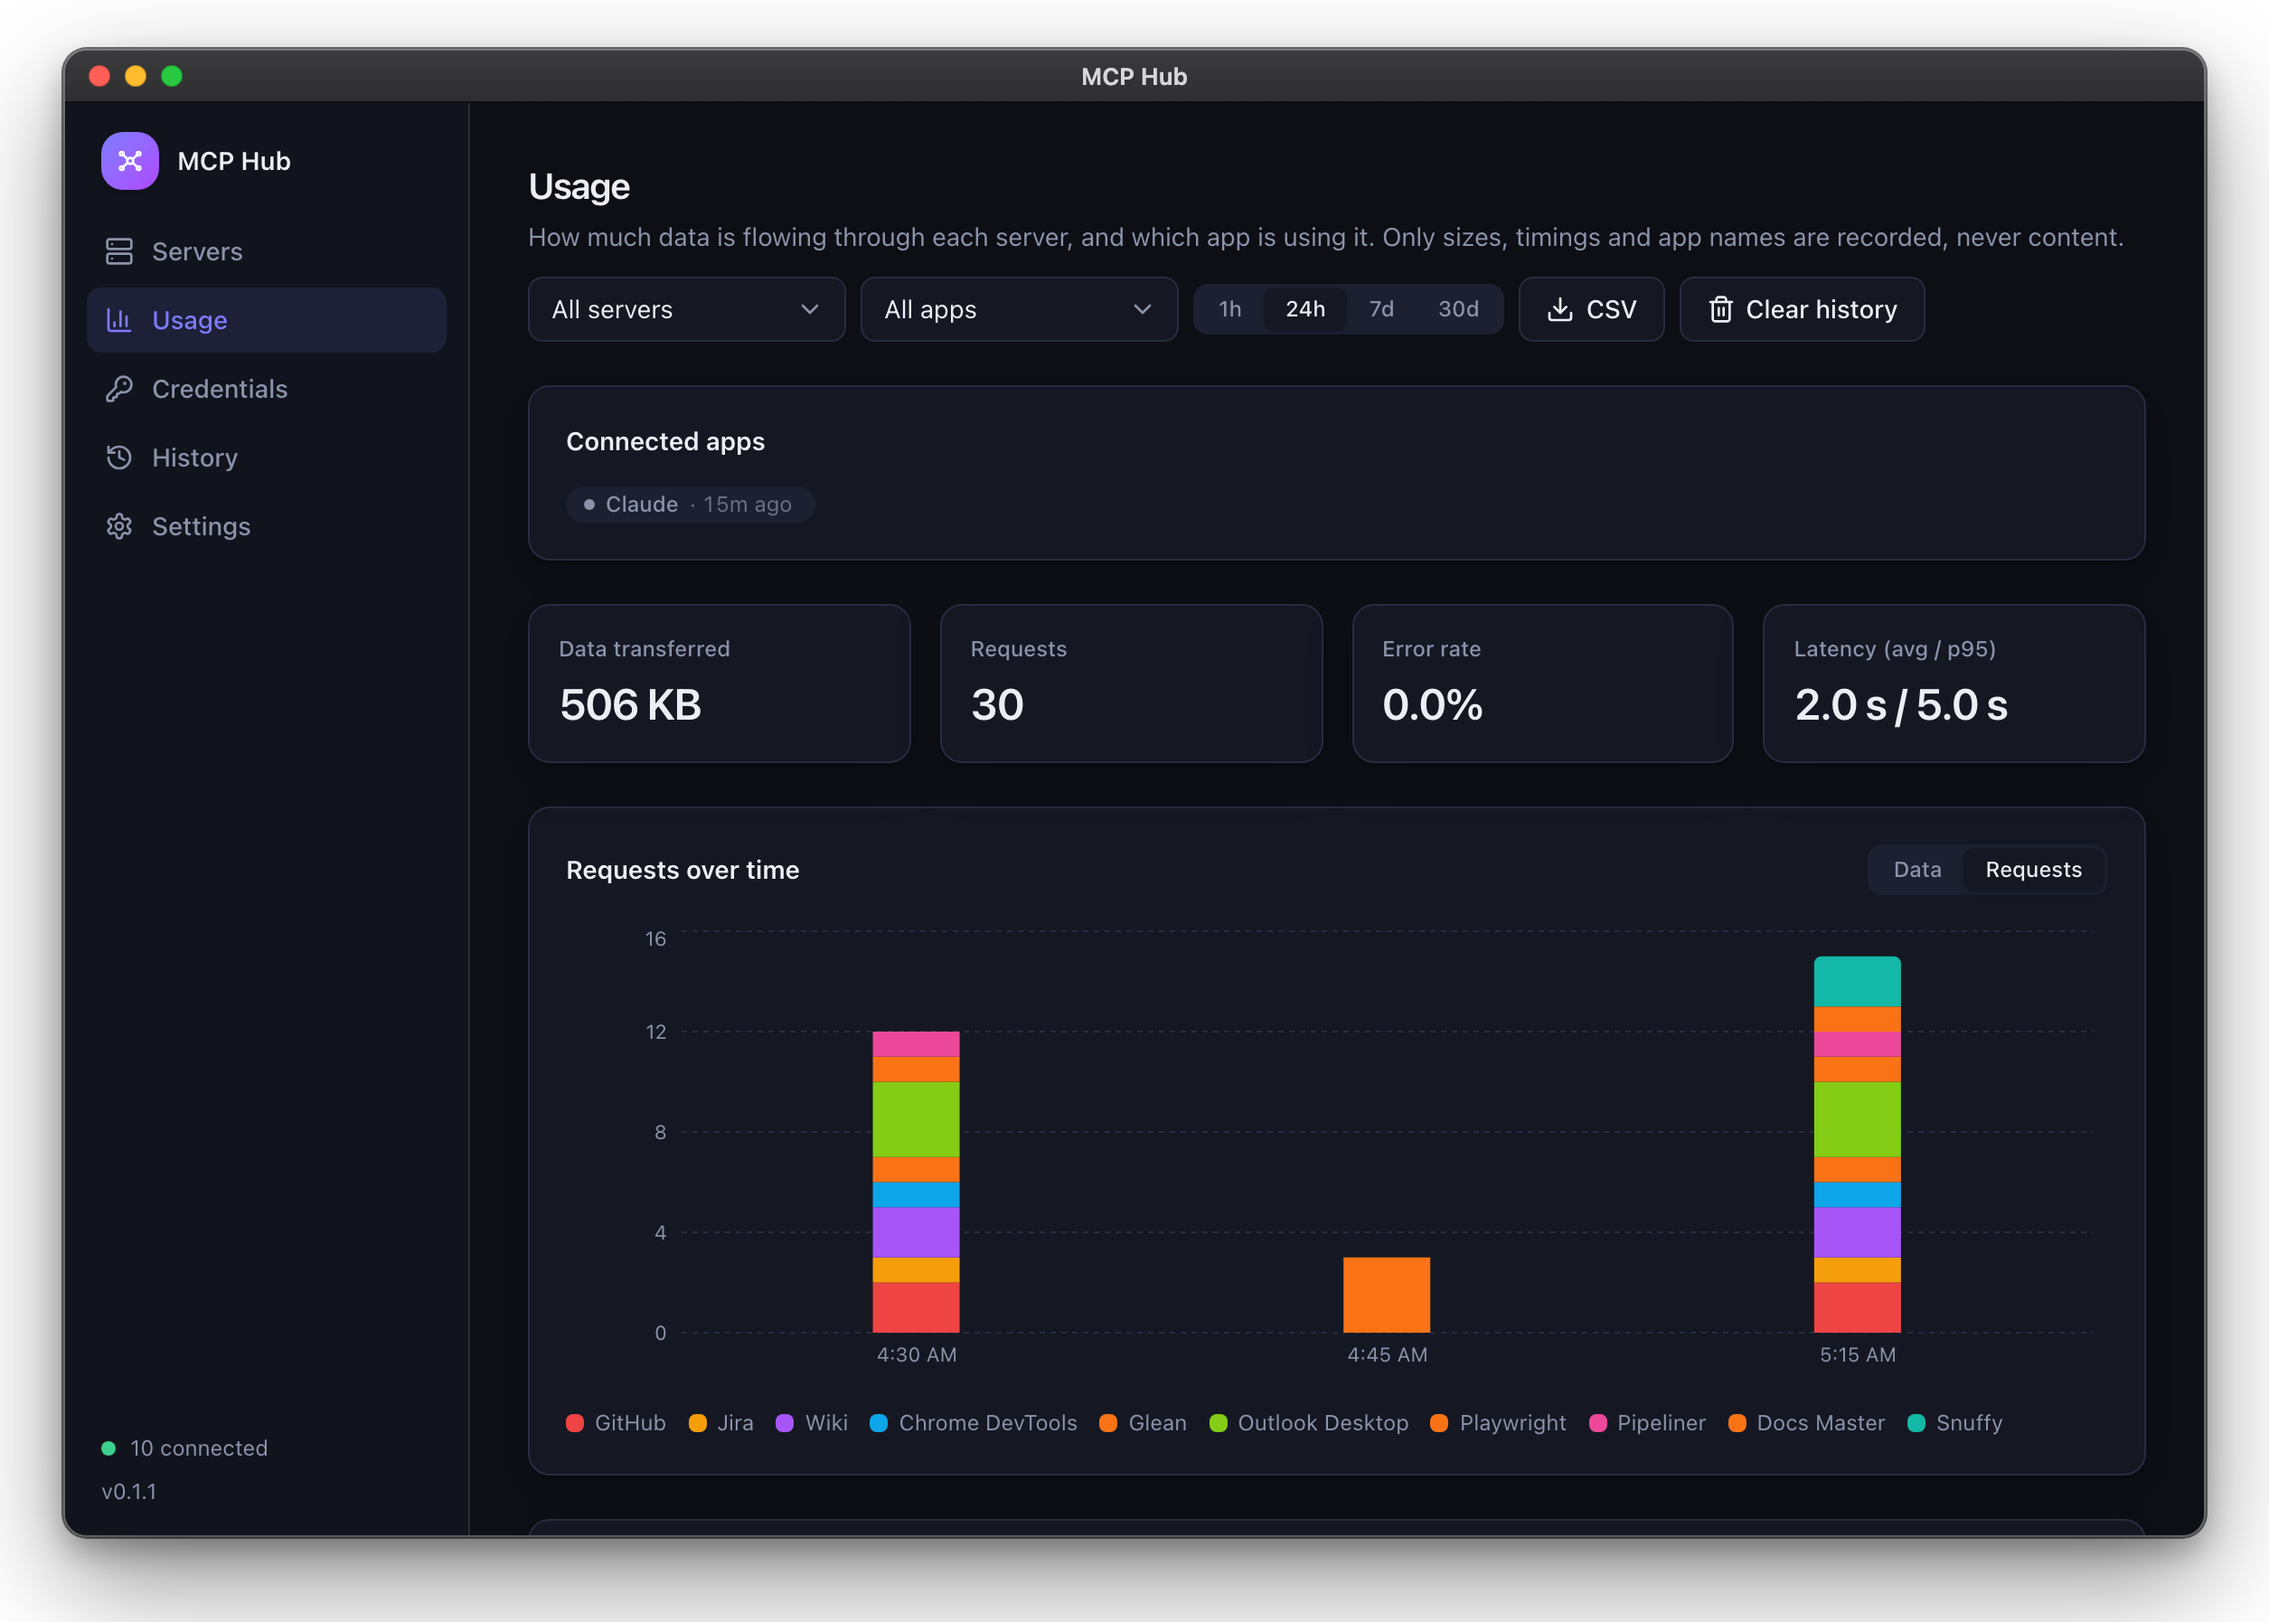
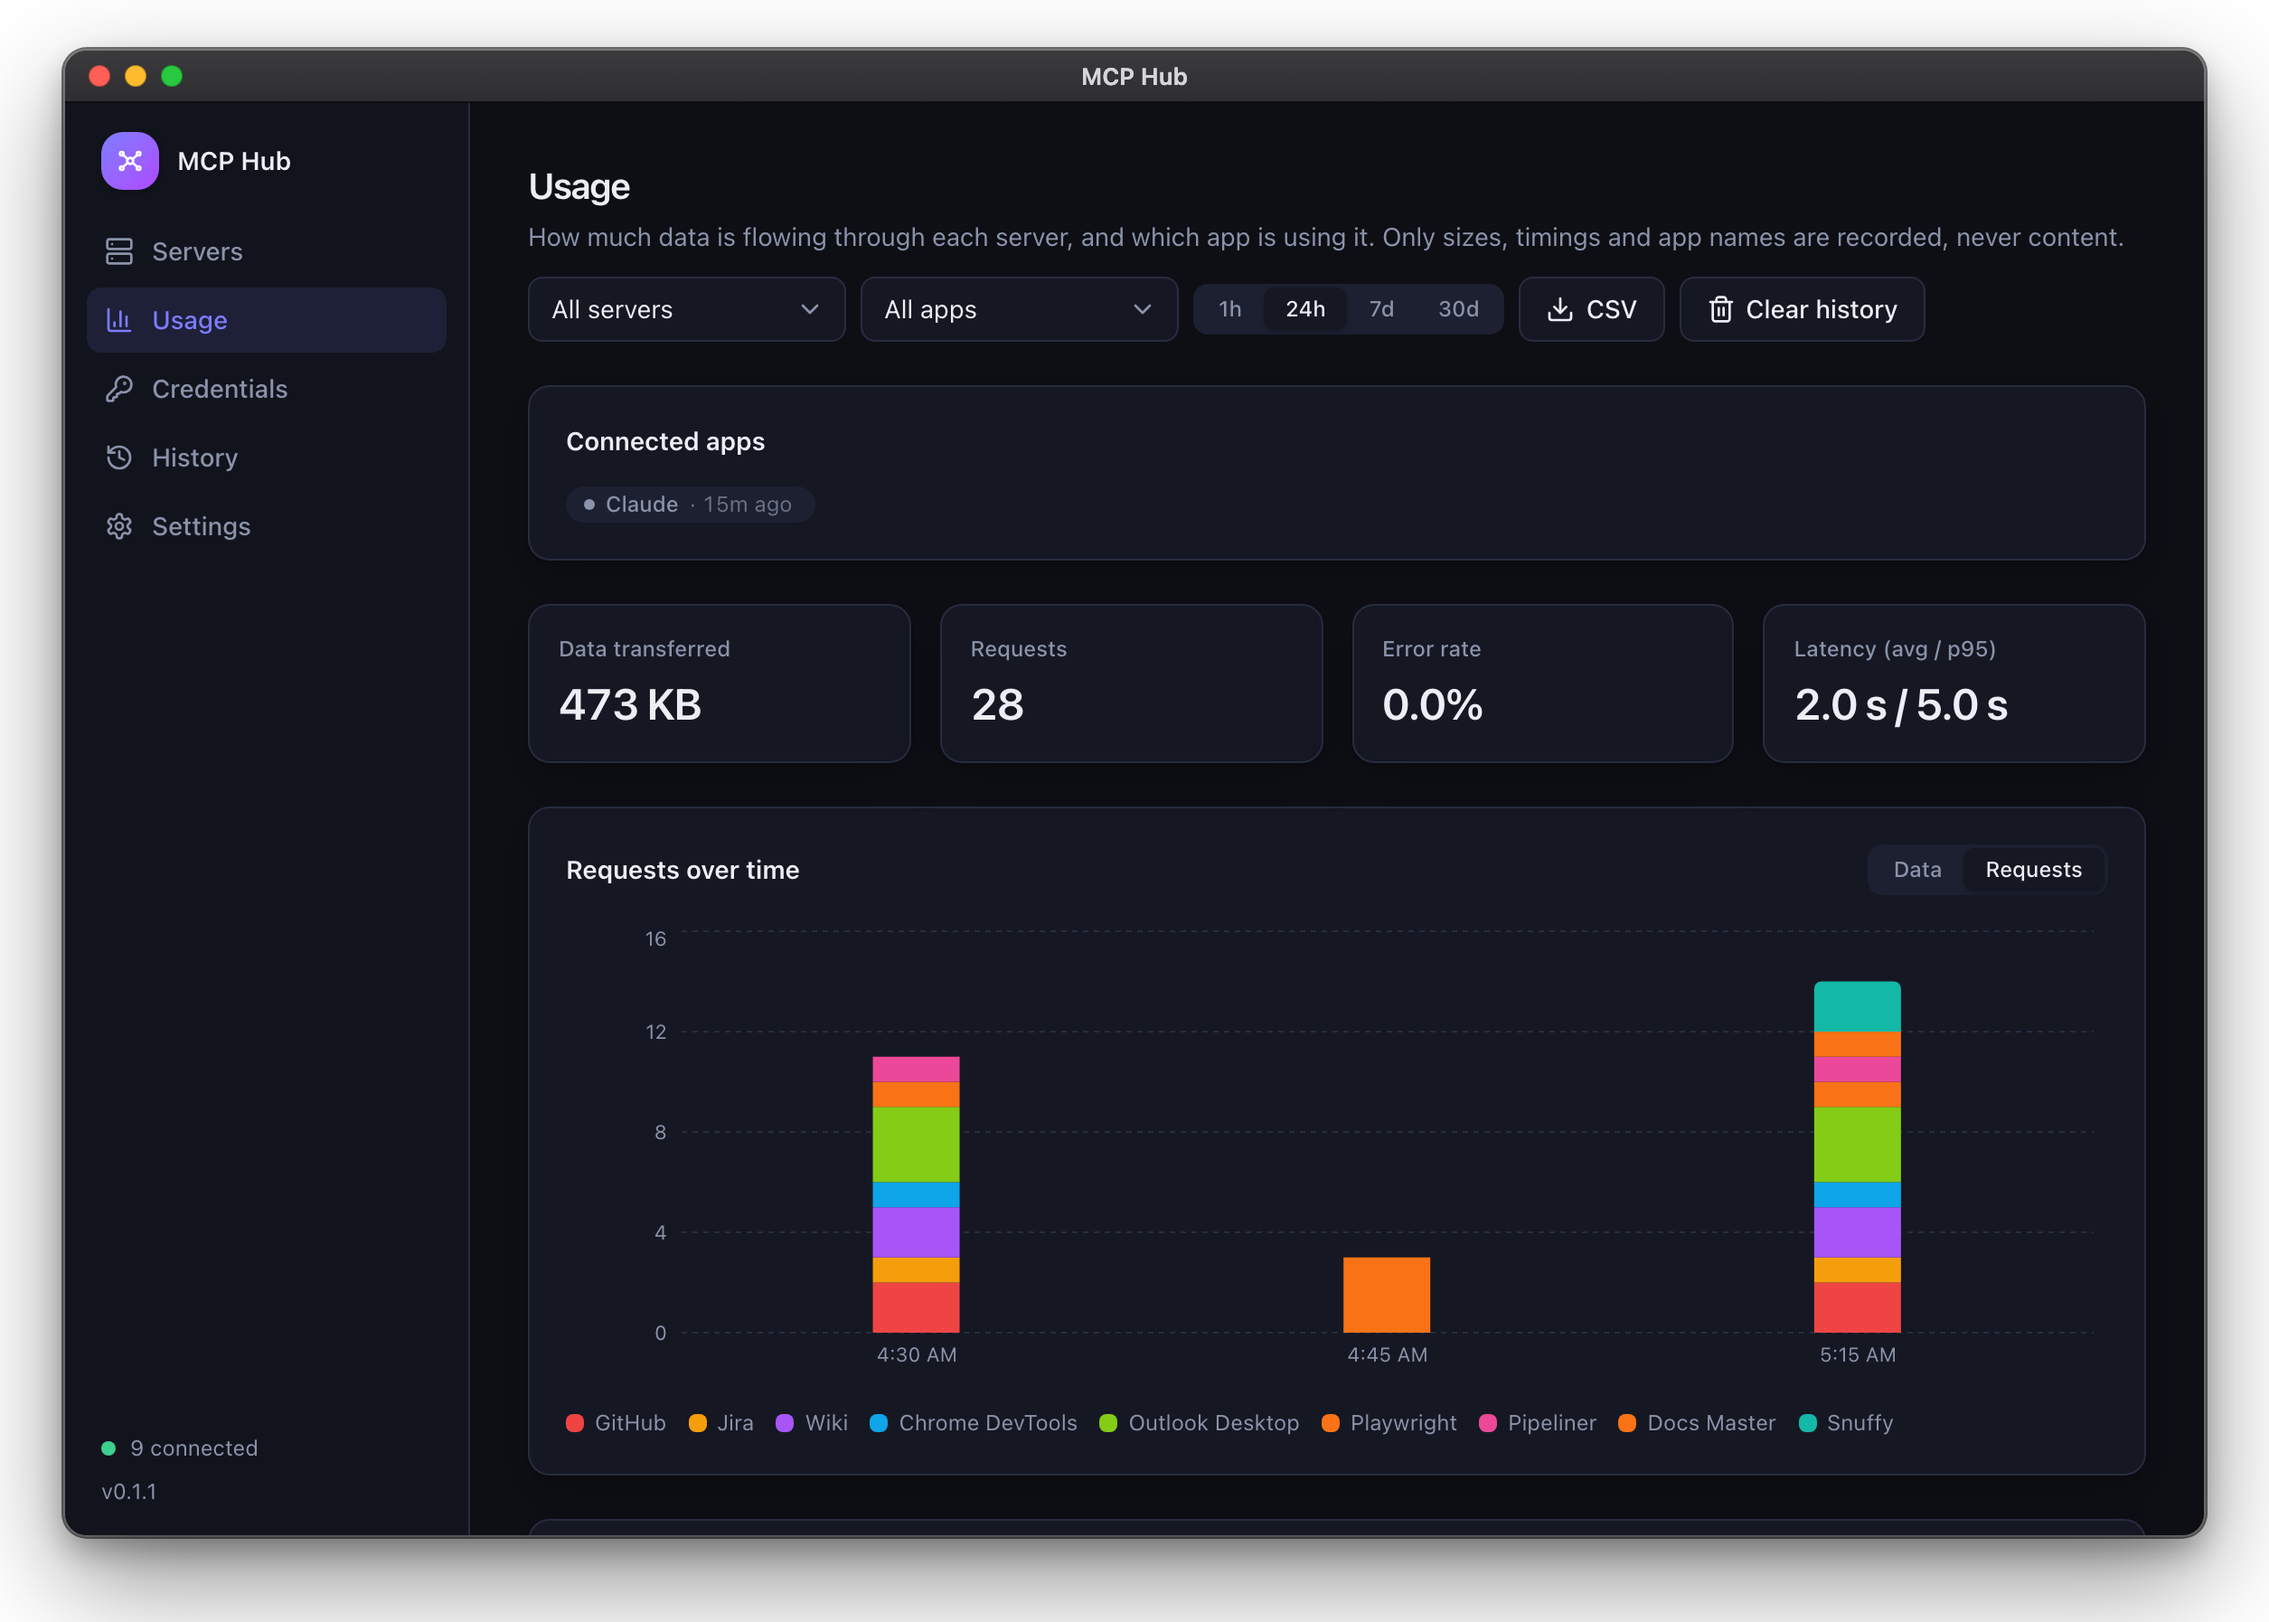
Cleanup screenshots

diff --git a/scripts/screenshots/demo-data.ts b/scripts/screenshots/demo-data.ts
@@ -25,17 +25,16 @@ interface DemoServer {
 
 // Labels are an addition for the screenshots (the old ones had none). In card order. The first eight are the cards visible in the existing Servers screenshot (name, transport, shown
 // command or URL, status, tool count and notes icon are read from it; the hidden tail of each truncated command is
-// a guess). Glean and Pipeliner only appear in the Usage legend, so everything about them except the name is a guess.
+// a guess). Pipeliner only appears in the Usage legend, so everything about them except the name is a guess.
 export const SERVERS: DemoServer[] = [
   { id: "outlook-desktop", labels: ["Work"], name: "Outlook Desktop", transport: "stdio", command: "/Users/me/.local/bin/uv", args: ["--directory", "/Users/me/Work/Repositories/outlook-desktop-mcp", "run", "outlook-desktop-mcp"], tools: 27 },
-  { id: "wiki", labels: ["Work"], name: "Wiki", transport: "stdio", command: "node", args: ["/Users/me/Work/Repositories/adobe-mcp-wiki/dist/index.js"], tools: 9 },
+  { id: "wiki", labels: ["Work"], name: "Wiki", transport: "stdio", command: "node", args: ["/Users/me/Work/Repositories/mcp-wiki/dist/index.js"], tools: 9 },
   { id: "docs-master-15", labels: ["Work"], name: "Docs Master", transport: "http", url: "https://api.docsmaster.null/api/v1/mcp", notes: "Internal docs search. Needs the VPN.", tools: 40, idle: true },
   { id: "github-3", labels: ["Personal"], name: "GitHub", transport: "stdio", command: "/Users/me/Work/Repositories/github-mcp-server/github-mcp-server", args: ["stdio"], tools: 51 },
-  { id: "jira", labels: ["Work"], name: "Jira", transport: "stdio", command: "node", args: ["/Users/me/Work/Repositories/adobe-mcp-jira/dist/index.js"], tools: 30 },
+  { id: "jira", labels: ["Work"], name: "Jira", transport: "stdio", command: "node", args: ["/Users/me/Work/Repositories/mcp-jira/dist/index.js"], tools: 30 },
   { id: "playwright", labels: ["Personal"], name: "Playwright", transport: "stdio", command: "npx", args: ["@playwright/mcp@latest"], tools: 25 },
   { id: "chrome-devtools", labels: ["Personal"], name: "Chrome DevTools", transport: "stdio", command: "npx", args: ["chrome-devtools-mcp@latest"], tools: 32 },
   { id: "snuffy-18", labels: ["Personal"], name: "Snuffy", transport: "http", url: "https://snuffy.io.null/mcp", notes: "Sandbox account.", tools: 4 },
-  { id: "glean", labels: ["Work"], name: "Glean", transport: "http", url: "https://acme-be.glean.null/mcp/default", tools: 12 },
   { id: "pipeliner-6", labels: ["Work"], name: "Pipeliner", transport: "stdio", command: "npx", args: ["@pipeliner/mcp@latest"], tools: 18 },
 ];
 
@@ -120,7 +119,6 @@ const REQUESTS: Array<[string, [number, number, number]]> = [
   ["jira", [1, 0, 1]],
   ["wiki", [2, 0, 2]],
   ["chrome-devtools", [1, 0, 1]],
-  ["glean", [1, 0, 1]],
   ["outlook-desktop", [3, 0, 3]],
   ["playwright", [1, 3, 1]],
   ["pipeliner-6", [1, 0, 1]],
